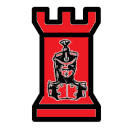
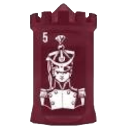
new pieces

diff --git a/app/src/main/java/de/arvato/stratego/StartPlayActivity.java b/app/src/main/java/de/arvato/stratego/StartPlayActivity.java
@@ -7,9 +7,6 @@ import android.view.MotionEvent;
 
 public class StartPlayActivity extends StrategoActivity implements TextToSpeech.OnInitListener, GestureDetector.OnGestureListener {
 
-//    private var mainLayout : RelativeLayout?=null;
-// private val arrImages: Array<StrategoImageView?> = arrayOfNulls<StrategoImageView>(64)
-
     private StrategoView strategoView;
     private GestureDetector gestureDetector;
 
@@ -21,17 +18,6 @@ public class StartPlayActivity extends StrategoActivity implements TextToSpeech.
         strategoView = new StrategoView(this);
 
         gestureDetector = new GestureDetector(this, this);
-
-
-        /*mainLayout = this.findViewById(R.id.LayoutMain) as RelativeLayout
-        var imgView1 = mainLayout!!.findViewById<StrategoImageView>(R.id.a8)
-        imgView1.setBackgroundResource(R.drawable.chess);
-
-        var imgView2 = mainLayout!!.findViewById<StrategoImageView>(R.id.b8)
-        imgView2.setBackgroundResource(R.drawable.chess);
-
-        var imgView3 = mainLayout!!.findViewById<StrategoImageView>(R.id.c8)
-        imgView3.setBackgroundResource(R.drawable.chess);*/
 
     }
 

diff --git a/app/src/main/java/de/arvato/stratego/StrategoViewBase.java b/app/src/main/java/de/arvato/stratego/StrategoViewBase.java
@@ -236,7 +236,7 @@ public class StrategoViewBase {
 
 			// marshall
 			StrategoImageView.arrPieceBitmaps[StrategoConstants.RED][PieceEnum.MARSHALL.getId()] = BitmapFactory.decodeStream(am.open(sFolder + "mariscal_red.png"));
-			StrategoImageView.arrPieceBitmaps[StrategoConstants.BLUE][PieceEnum.MARSHALL.getId()] = BitmapFactory.decodeStream(am.open(sFolder + "mariscal_blue.png"));
+			StrategoImageView.arrPieceBitmaps[StrategoConstants.BLUE][PieceEnum.MARSHALL.getId()] = BitmapFactory.decodeStream(am.open(sFolder + "marshall_blue.png"));
 
 			// field board
             for (int k=0;k<100;k++) {
